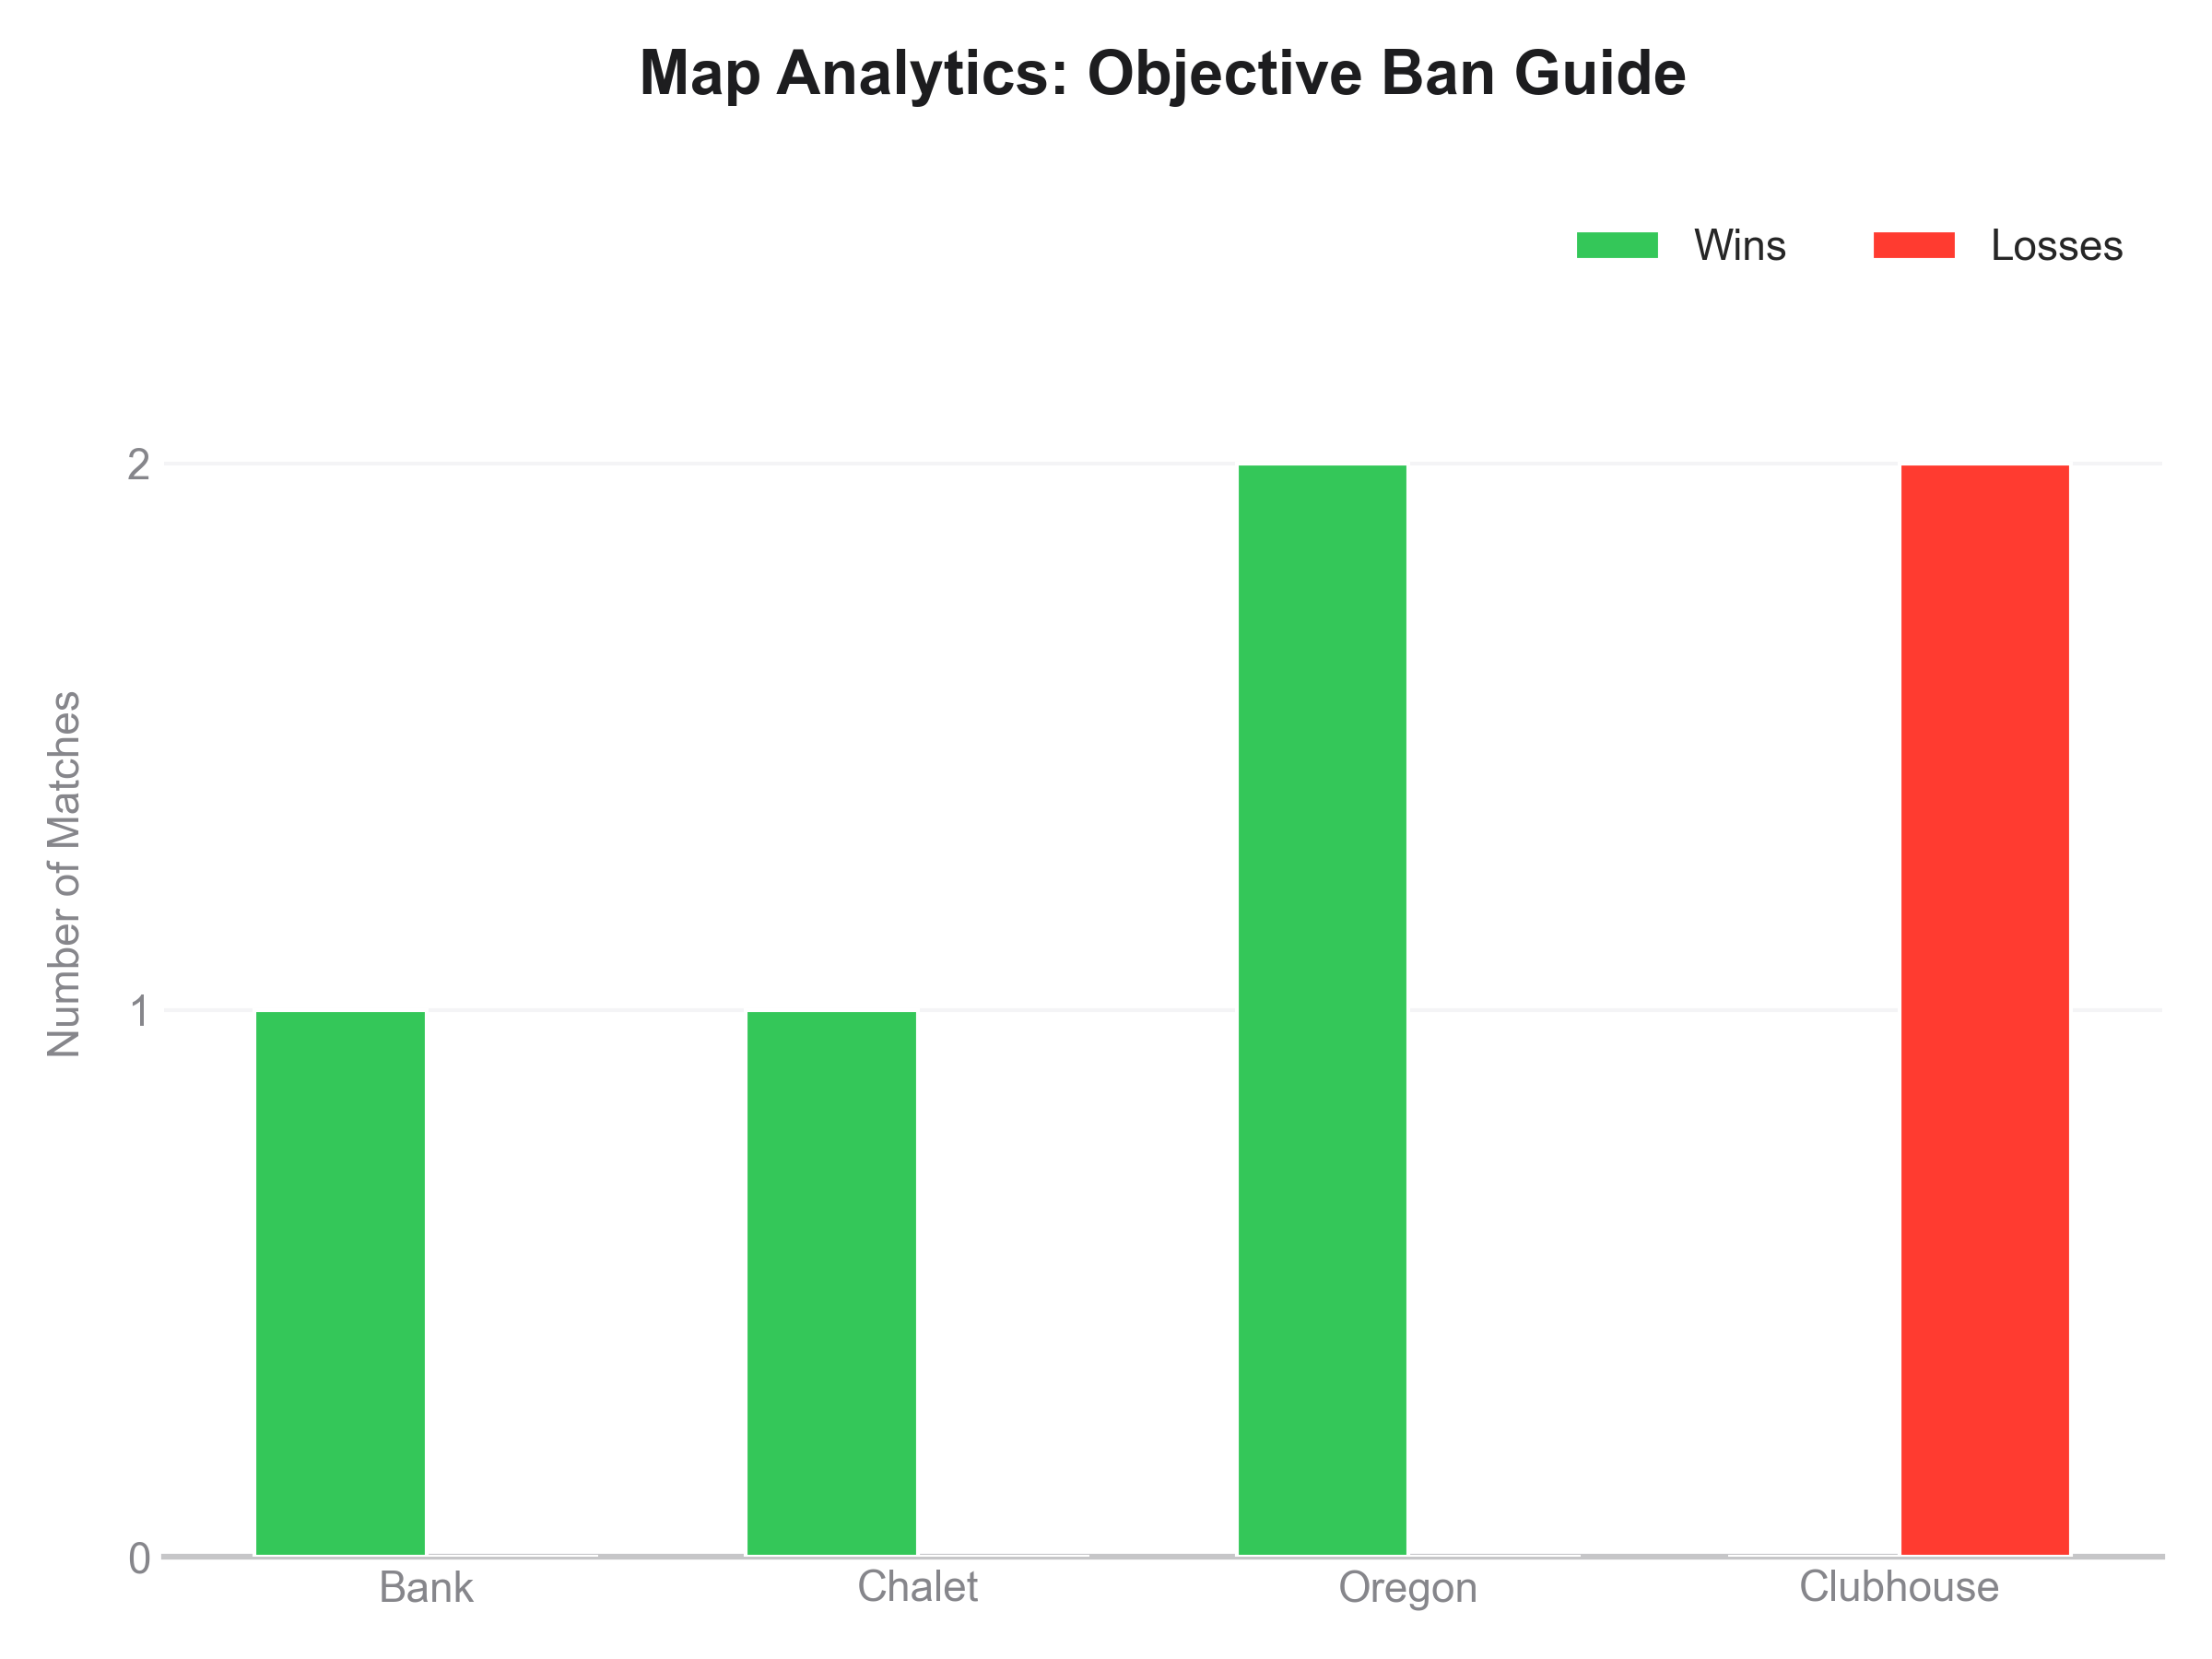
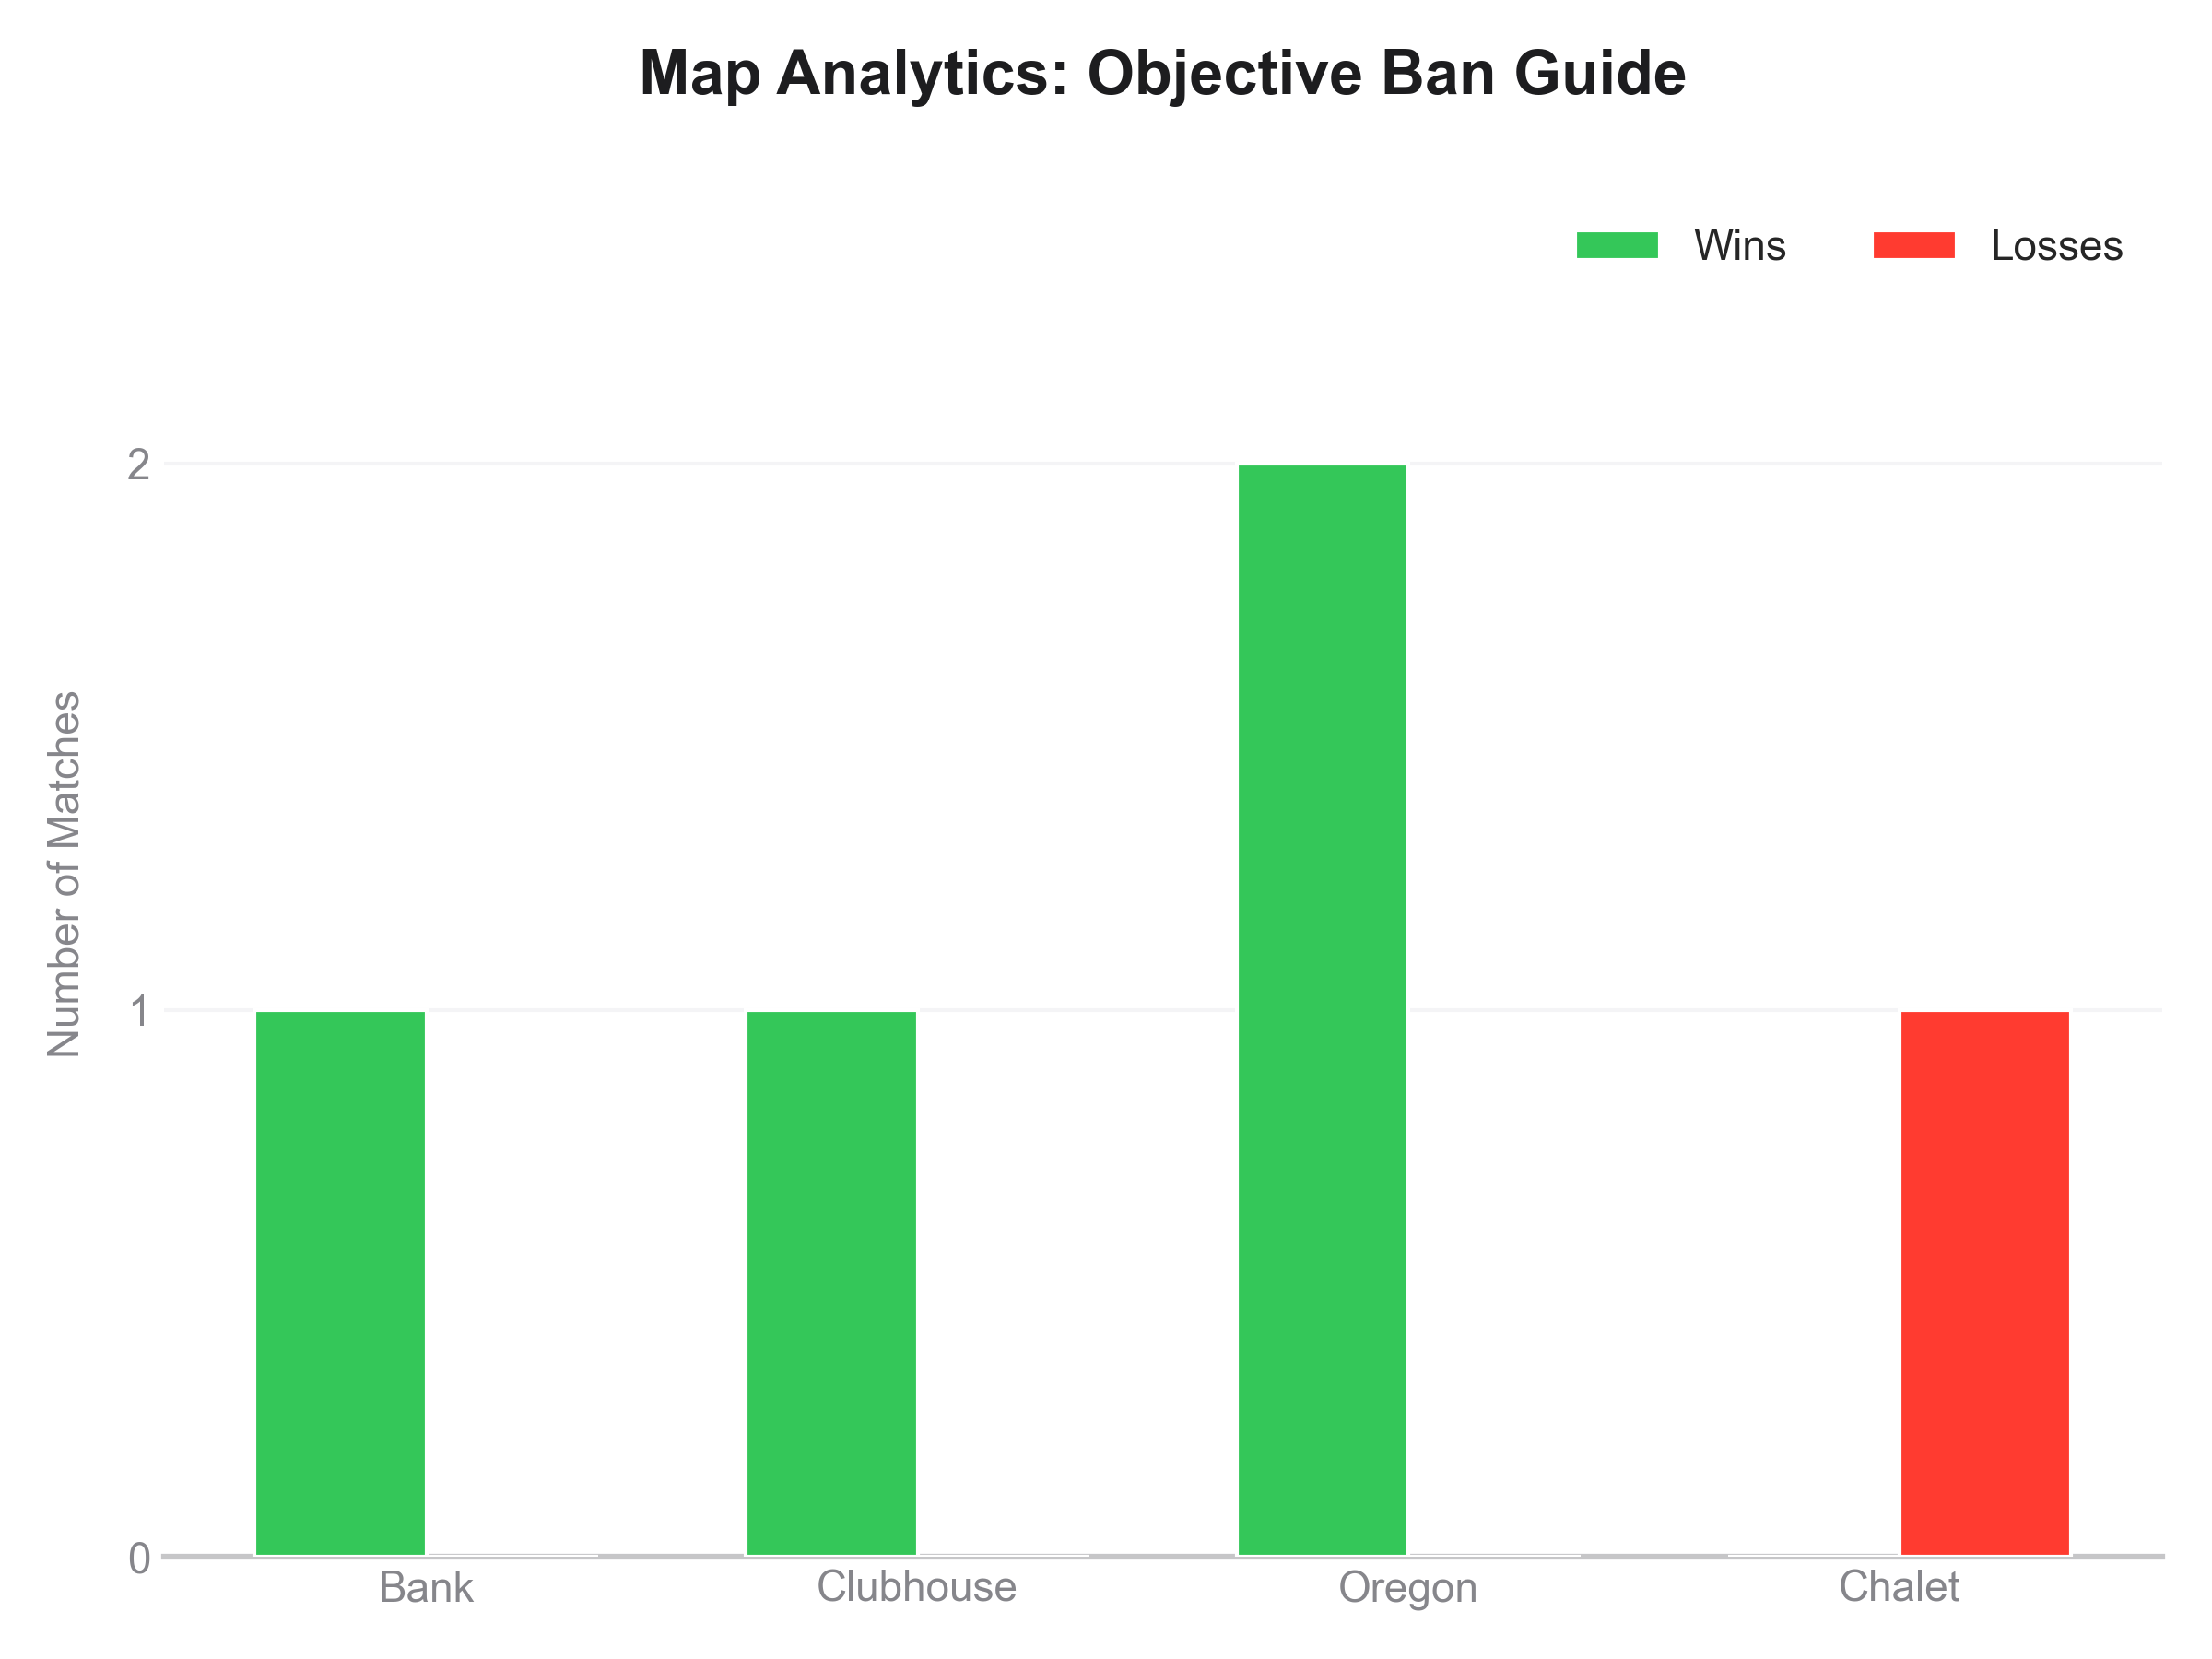
Clean up dead code

Changed region(s): [[0.8438, 0.28, 0.9375, 0.6222], [0.8125, 0.9333, 0.9062, 0.9644], [0.375, 0.9333, 0.4688, 0.9644]]

diff --git a/src/tracker_scraper.py b/src/tracker_scraper.py
@@ -1,0 +1,70 @@
+import asyncio
+import pandas as pd
+from playwright.async_api import async_playwright
+
+async def fetch_recent_matches(username: str) -> pd.DataFrame:
+    """Invisibly scrapes R6Tracker for recent match data."""
+    async with async_playwright() as p:
+        # headless=True makes the browser completely invisible
+        browser = await p.chromium.launch(headless=True, slow_mo=50)
+        context = await browser.new_context(
+            user_agent="Mozilla/5.0 (Windows NT 10.0; Win64; x64) AppleWebKit/537.36 (KHTML, like Gecko) Chrome/120.0.0.0 Safari/537.36",
+            viewport={'width': 1920, 'height': 1080}
+        )
+        page = await context.new_page()
+
+        target_url = f"https://r6.tracker.network/r6siege/profile/ubi/{username}/matches"
+        
+        try:
+            await page.goto(target_url, timeout=60000)
+            
+            # Silently handle cookies
+            try:
+                accept_btn = page.get_by_role("button", name="Accept", exact=True).first
+                await accept_btn.wait_for(state="visible", timeout=4000)
+                await accept_btn.click()
+                await asyncio.sleep(1)
+                
+                accept_all_btn = page.get_by_role("button", name="Accept All", exact=True).first
+                if await accept_all_btn.is_visible():
+                    await accept_all_btn.click()
+            except Exception:
+                pass # Proceed if no banner appears
+
+            # Extract the data
+            await page.wait_for_selector("div.v3-match-row", state="visible", timeout=15000)
+            match_elements = await page.locator("div.v3-match-row").all()
+            
+            parsed_matches = []
+            
+            for row in match_elements:
+                row_text = await row.inner_text()
+                data = [line.strip() for line in row_text.split('\n') if line.strip()]
+                
+                try:
+                    raw_map_str = data[0]
+                    map_name = raw_map_str.split("ago")[-1].strip() if "ago" in raw_map_str else raw_map_str
+                    
+                    score_idx = data.index("Score")
+                    team_a = int(data[score_idx + 1])
+                    team_b = int(data[score_idx + 3])
+                    result = "Win" if team_a > team_b else "Loss"
+                    
+                    rp_idx = data.index("RP")
+                    absolute_rp = int(data[rp_idx + 1].replace(',', '')) # Converts "1,801" to 1801
+                    
+                    parsed_matches.append({
+                        "Map": map_name,
+                        "Result": result,
+                        "RP": absolute_rp
+                    })
+                except ValueError:
+                    continue
+                    
+            await browser.close()
+            return pd.DataFrame(parsed_matches)
+            
+        except Exception as e:
+            print(f"Scraper Error for {username}: {e}")
+            await browser.close()
+            return pd.DataFrame() # Return an empty DataFrame if it fails so the bot doesn't crash

diff --git a/src/main.py b/src/main.py
@@ -1,14 +1,14 @@
 import os
 import json
 import discord
+import pandas as pd
 from discord.ext import commands
 from dotenv import load_dotenv
 
-# FIXED: Added load_match_data back so the mapban command functions properly
-from data_processor import load_match_data, load_match_data_from_db, get_map_stats, get_synergy_stats
+from data_processor import load_match_data_from_db, get_synergy_stats
 from visualizer import generate_mmr_chart, generate_map_chart, generate_synergy_chart
-from api_client import fetch_player_data
 from db_manager import init_db, log_mmr
+from tracker_scraper import fetch_recent_matches
 
 load_dotenv()
 TOKEN = os.getenv('DISCORD_TOKEN')
@@ -41,7 +41,6 @@ async def ping(ctx):
 
 @bot.command(name='register')
 async def register(ctx, r6_name: str):
-    """Links a Discord account to an R6 player name in the database."""
     discord_id = str(ctx.author.id)
     users = load_users()
     users[discord_id] = r6_name
@@ -50,27 +49,26 @@ async def register(ctx, r6_name: str):
 
 @bot.command(name='rank')
 async def rank(ctx, *members: discord.Member):
-    """Generates an MMR timeline with Optimistic Network Fetching."""
     users = load_users()
     target_members = members if members else [ctx.author]
     players_to_graph = []
     
-    status_msg = await ctx.send("⏳ *Querying Ubisoft Network for telemetry...*")
+    status_msg = await ctx.send("🕵️♂️ *Deploying Ghost Browser for MMR Telemetry...*")
     live_data_found = False
 
     for member in target_members:
         discord_id = str(member.id)
         r6_name = users.get(discord_id, member.display_name)
         
-        live_data = await fetch_player_data(r6_name)
+        df_matches = await fetch_recent_matches(r6_name)
         
-        if live_data:
-            mmr = live_data["current_mmr"]
-            rank_name = live_data["rank"]
+        if not df_matches.empty and 'RP' in df_matches.columns:
+            mmr = int(df_matches.iloc[0]['RP'])
+            rank_name = "Ranked (Scraped)"
             
             log_mmr(r6_name, mmr, rank_name)
             
-            await ctx.send(f"📡 **Live Network Stats for {r6_name}:**\nRank: **{rank_name}** | MMR: **{mmr}**\n*(Snapshot saved to database)*")
+            await ctx.send(f"📡 **Live Scraped Stats for {r6_name}:**\nMMR: **{mmr}**\n*(Snapshot saved to database)*")
             live_data_found = True
         else:
             players_to_graph.append(r6_name)
@@ -78,7 +76,7 @@ async def rank(ctx, *members: discord.Member):
     if not players_to_graph:
         await status_msg.delete()
         if not live_data_found:
-            await ctx.send("❌ **Error:** No valid telemetry found on Network or Local DB.")
+            await ctx.send("❌ **Error:** Scraper failed to extract RP. R6Tracker may be blocking the request.")
         return
 
     try:
@@ -98,22 +96,43 @@ async def rank(ctx, *members: discord.Member):
         chart_path = generate_mmr_chart(filtered_df)
         
         discord_file = discord.File(chart_path, filename="mmr_timeline.png")
-        await ctx.send(content="**Squad MMR Timeline (Local Fallback)**", file=discord_file)
+        await ctx.send(content="**Squad MMR Timeline (Local Database)**", file=discord_file)
         await status_msg.delete()
         
     except Exception as e:
         await ctx.send(f"⚠️ **CRITICAL ERROR:** Failed to process telemetry.\n`{e}`")
 
 @bot.command(name='mapban')
-async def mapban(ctx):
-    status_msg = await ctx.send("⏳ *Aggregating map statistics...*")
+async def mapban(ctx, r6_name: str = None):
+    if not r6_name:
+        users = load_users()
+        r6_name = users.get(str(ctx.author.id))
+        if not r6_name:
+            await ctx.send("⚠️ You aren't registered! Type `!register <R6_Name>` or use `!mapban <R6_Name>`.")
+            return
+
+    status_msg = await ctx.send(f"🕵️♂️ *Deploying Ghost Browser... scraping live match history for **{r6_name}**...*")
+    
     try:
-        df = load_match_data('data/sample_match_data.json')
-        map_analytics = get_map_stats(df)
-        chart_path = generate_map_chart(map_analytics)
-        discord_file = discord.File(chart_path, filename="map_win_rates.png")
-        await ctx.send(content="**Map Analytics: Objective Ban Guide**", file=discord_file)
+        df = await fetch_recent_matches(r6_name)
+        
+        if df.empty:
+            await status_msg.edit(content=f"❌ Failed to extract match data for {r6_name}.")
+            return
+
+        map_stats = pd.crosstab(df['Map'], df['Result'])
+        
+        if 'Win' not in map_stats.columns:
+            map_stats['Win'] = 0
+        if 'Loss' not in map_stats.columns:
+            map_stats['Loss'] = 0
+
+        chart_path = generate_map_chart(map_stats)
+        discord_file = discord.File(chart_path, filename="mapban.png")
+        
+        await ctx.send(content=f"📊 **Live Map Analytics for {r6_name}** (Last {len(df)} Matches)", file=discord_file)
         await status_msg.delete()
+        
     except Exception as e:
         await ctx.send(f"⚠️ **CRITICAL ERROR:** Failed to process map analytics.\n`{e}`")
 

diff --git a/src/data_processor.py b/src/data_processor.py
@@ -17,7 +17,6 @@ def load_match_data_from_db():
     if df.empty:
         return pd.DataFrame(columns=['date'])
 
-    # Upgraded to pivot_table to safely handle duplicate daily entries
     pivot_df = df.pivot_table(
         index='date', 
         columns='r6_name', 
@@ -26,29 +25,6 @@ def load_match_data_from_db():
     ).reset_index()
     
     return pivot_df
-
-def load_match_data(filepath):
-    """Ingests raw JSON match telemetry and returns a sanitized Pandas DataFrame."""
-    if not os.path.exists(filepath):
-        raise FileNotFoundError(f"CRITICAL: Data file missing at {filepath}")
-    
-    df = pd.read_json(filepath)
-    if 'date' in df.columns:
-        df['date'] = pd.to_datetime(df['date'])
-    return df
-
-def get_map_stats(df):
-    """Aggregates raw telemetry to calculate win/loss counts and win rates per map."""
-    stats = pd.crosstab(df['map'], df['result'])
-    
-    for col in ['Win', 'Loss']:
-        if col not in stats.columns:
-            stats[col] = 0
-            
-    stats['Total Matches'] = stats['Win'] + stats['Loss']
-    stats['Win Rate %'] = (stats['Win'] / stats['Total Matches']) * 100
-    
-    return stats.sort_values(by='Win Rate %', ascending=False)
 
 def get_synergy_stats(filepath):
     """
@@ -60,7 +36,6 @@ def get_synergy_stats(filepath):
     
     df = pd.read_json(filepath)
     
-    # Normalize pairings alphabetically to ensure accurate counting
     df['Duo'] = df.apply(lambda row: ' + '.join(sorted([row['player_1'], row['player_2']])), axis=1)
     
     stats = pd.crosstab(df['Duo'], df['result'])